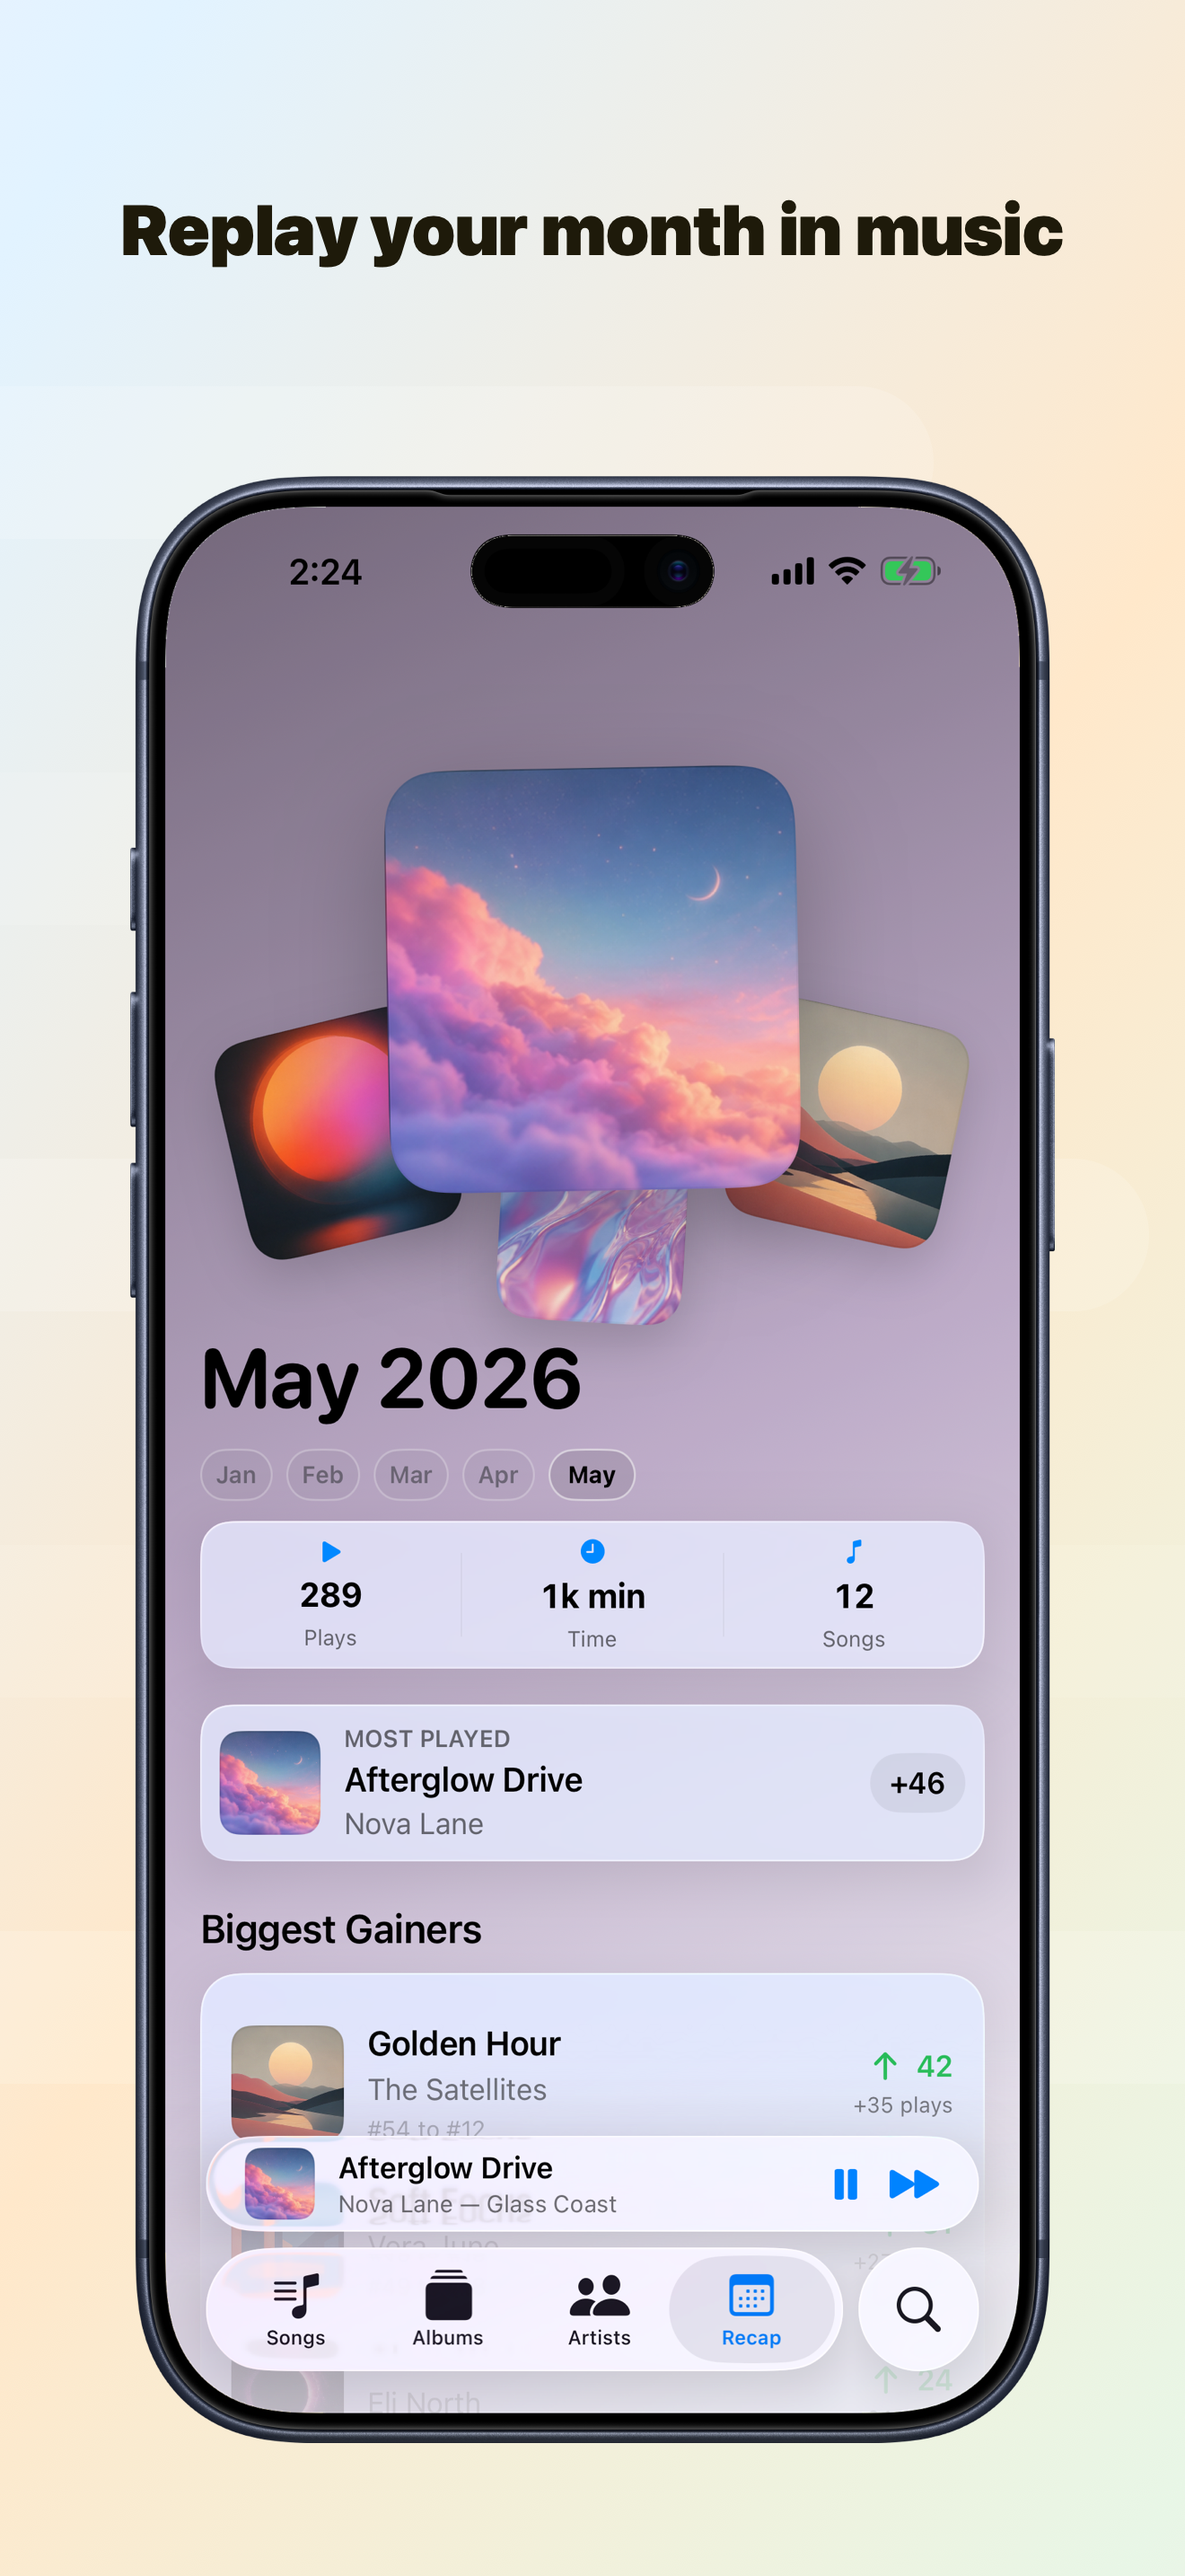
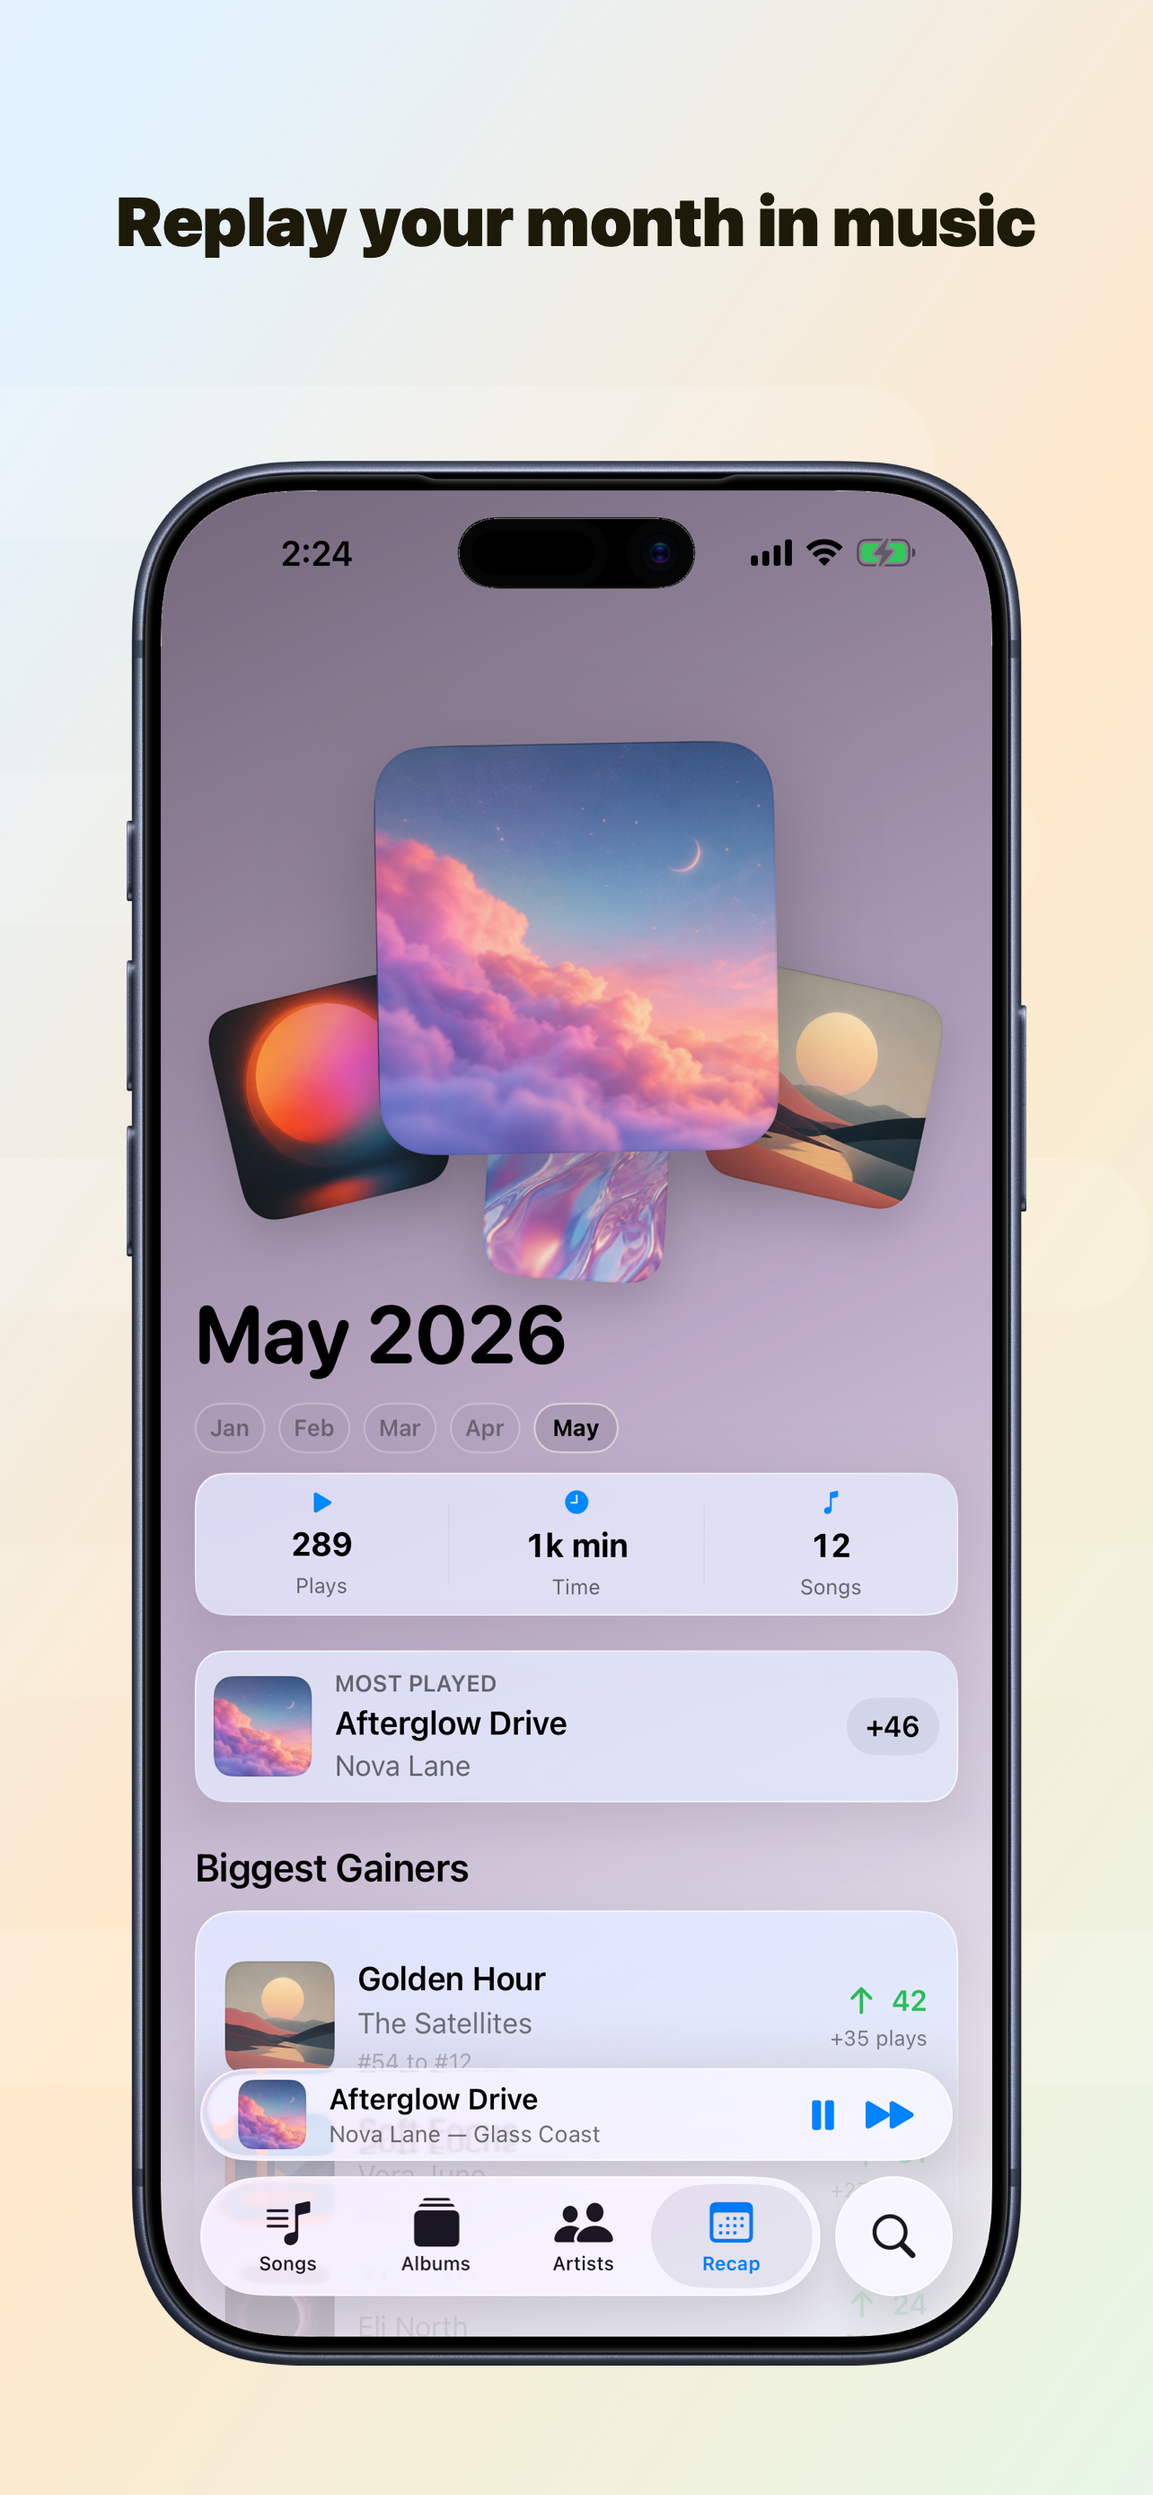
Fix App Store screenshot dimensions

diff --git a/tools/create_app_store_framed_screenshots.swift b/tools/create_app_store_framed_screenshots.swift
@@ -50,9 +50,9 @@ let shots: [Shot] = [
     )
 ]
 
-let canvasSize = CGSize(width: 1320, height: 2868)
-let deviceFrame = CGRect(x: 145, y: 530, width: 1030, height: 2190)
-let titleRect = CGRect(x: 74, y: 216, width: 1172, height: 124)
+let canvasSize = CGSize(width: 1284, height: 2778)
+let deviceFrame = CGRect(x: 141, y: 513, width: 1002, height: 2121)
+let titleRect = CGRect(x: 72, y: 209, width: 1140, height: 120)
 let rgbaBitmapInfo = CGBitmapInfo.byteOrder32Big.rawValue | CGImageAlphaInfo.premultipliedLast.rawValue
 
 func flipped(_ rect: CGRect) -> CGRect {
@@ -309,11 +309,11 @@ func render(_ shot: Shot) throws {
     drawText(
         shot.title,
         rect: titleRect,
-        font: NSFont.systemFont(ofSize: 78, weight: .black),
+        font: NSFont.systemFont(ofSize: 76, weight: .black),
         color: NSColor(calibratedRed: 0.09, green: 0.08, blue: 0.04, alpha: 1),
         context: context,
         alignment: .center,
-        lineHeight: 84
+        lineHeight: 81
     )
 
     guard let bezelImage = NSImage(contentsOf: bezelURL),
